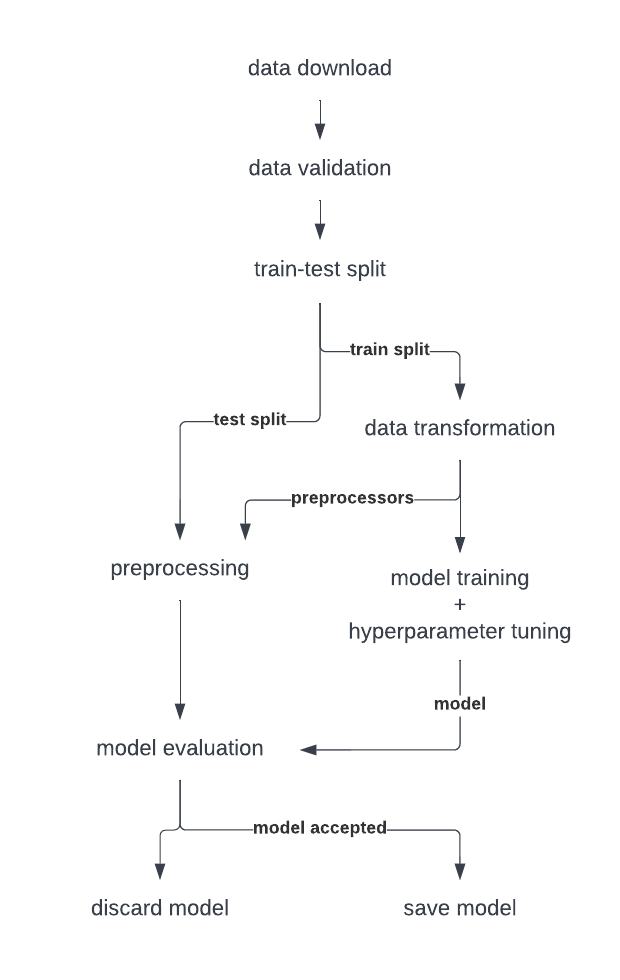
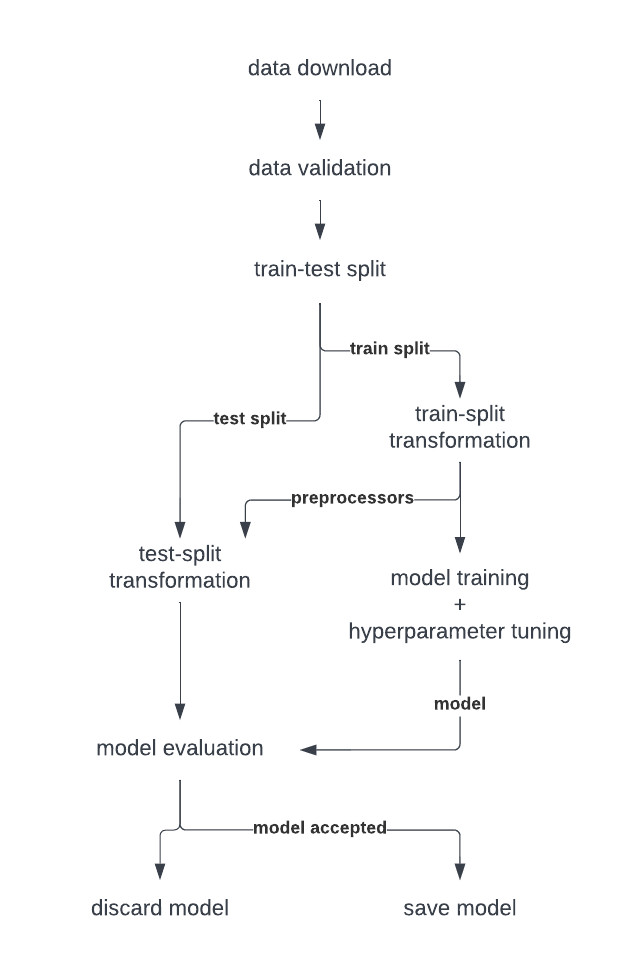
train_test_split + train_split_transformation

Changed region(s): [[0.5823, 0.398, 0.8887, 0.4592], [0.1839, 0.5204, 0.3984, 0.6122], [0.5516, 0.3367, 0.7048, 0.3673]]

diff --git a/modules/train_split_transformation.py b/modules/train_split_transformation.py
@@ -1,0 +1,29 @@
+from dask_ml.preprocessing import LabelEncoder, RobustScaler
+import dask.array as da
+
+
+def train_split_transformation(df):
+    # Price
+    # Converting everything to lacs
+    df.loc[df["Unit"] == "Cr", "Price"] = df["Price"] * 100
+    df.drop("Unit", axis=1, inplace=True)
+
+    # Status
+    status_le = LabelEncoder()
+    df["Status"] = status_le.fit_transform(df["Status"])
+
+    # Age
+    age_le = LabelEncoder()
+    df["Age"] = age_le.fit_transform(df["Age"])
+
+    targets = da.from_array(df["Price"].to_numpy())
+    features = da.from_array(df.drop("Price", axis=1).to_numpy())
+
+    # Scaling the features
+    feature_scaler = RobustScaler()
+    scaled_features = feature_scaler.fit_transform(features)
+
+    return {
+        "targets": targets,
+        "features": scaled_features
+    }

diff --git a/modules/get_data.py b/modules/get_data.py
@@ -33,15 +33,10 @@ def fetch_by_page_no(page_no, data, url):
 
 def fetch_data_():
 
-    # Opening the global parameters
-    with open("./modules/param.yaml", "r") as stream:
-        try:
-            param = yaml.safe_load(stream)
-        except yaml.YAMLError as exc:
-            print(exc)
+    url = "https://www.makaan.com/kolkata-residential-property/"\
+          "buy-property-in-kolkata-city?page={}"
 
-    url = param["get_data"]["URL"]
-    num_pages = param["get_data"]["NUM_PAGES"]
+    num_pages = 5
 
     page_nos = [i for i in range(num_pages)]
     data = []

diff --git a/main.py b/main.py
@@ -7,6 +7,7 @@ from dagster import (
 
 from modules.get_data import fetch_data_
 from modules.data_validation import validate_data_
+from modules.train_test_split import train_test_split_
 
 
 @op
@@ -56,3 +57,13 @@ def data_validation(context, df):
         raise Exception("Data couldn't be saved.")
 
     return df_clean
+
+
+@op
+def train_test_split(df):
+    result = train_test_split_(df)
+
+    return {
+        "train": result["train_split"],
+        "test": result["test_split"]
+    }

diff --git a/modules/train_test_split.py b/modules/train_test_split.py
@@ -1,0 +1,12 @@
+from dask_ml.model_selection import train_test_split
+
+
+def train_test_split_(df):
+    train, test = train_test_split(
+        df, test_size=0.2, random_state=42
+    )
+
+    return {
+        "train_split": train,
+        "test_split": test
+    }

diff --git a/README.md b/README.md
@@ -1,8 +1,9 @@
 # MLOps with Dagster
-## Pull Home prices for the next 1 month. 
-## Train a model on it.
-## Predict the price. 
-## Show some metrics.
+### Approach
+* Pull Home prices for the next 1 month. 
+* Train a model on it.
+* Predict the price. 
+* Show some metrics.
 
 Data Source : [makaan.com](https://www.makaan.com/kolkata-residential-property/buy-property-in-kolkata-city?page=1)
 Freeze: `pip list --format=freeze > requirements.txt`
